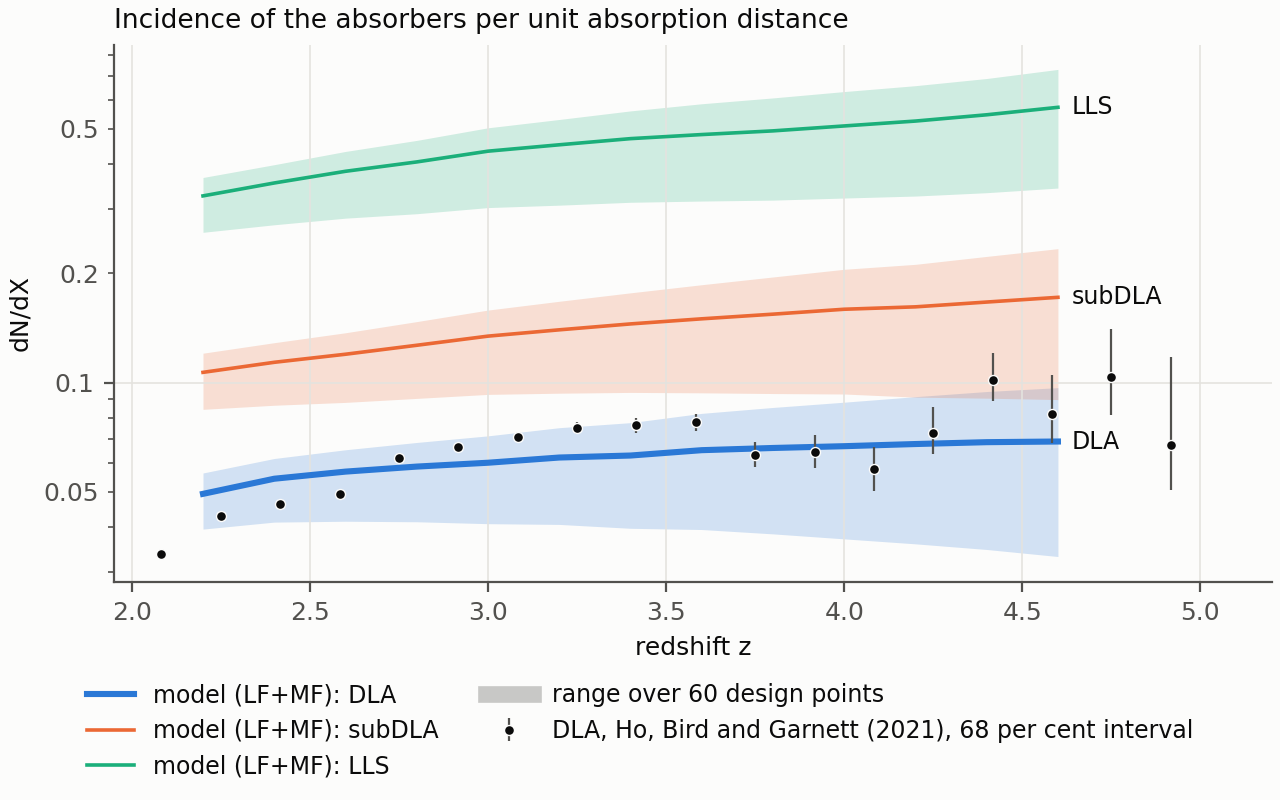
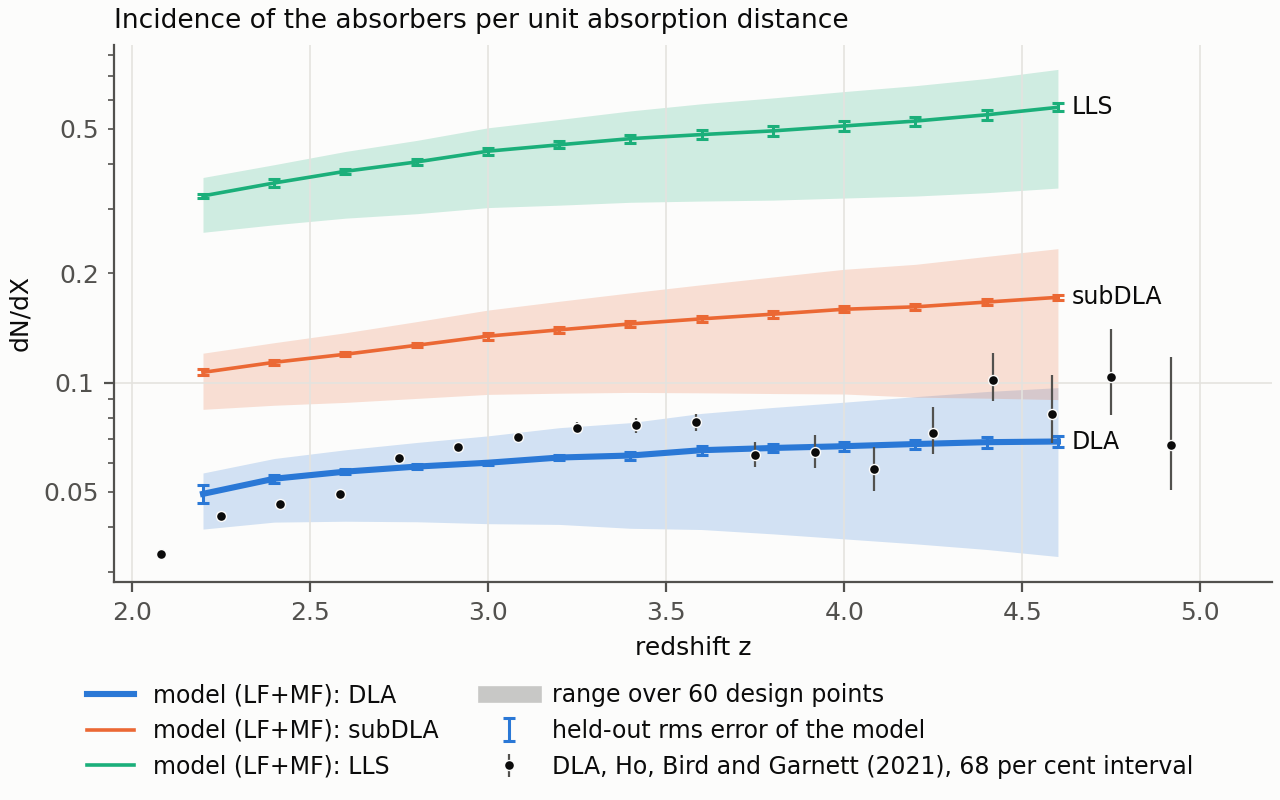
dN/dX figure: the model's held-out error as bars on its lines
The dN/dX figure draws pred.dndx_err times pred.dndx on the model lines at the snapshot redshifts: the held-out rms
of the fractional error of the corrected dN/dX, from five held-out high-resolution simulations. The caption says
what it is, that it includes the bias, and that it is an indication of size and not a standard deviation; it is
kept apart from the band over the design points. The CDDF figure does not draw the error; its caption points to
pred.cddf_err. The script draws the bars only when the model carries an estimate.

The image is redrawn from the candidate LF+MF release (staged, not yet public) with an incidence record that holds
the held-out error. The CDDF image is unchanged; both side files gain the new flag.

Changed region(s): [[0.4375, 0.875, 0.9375, 0.9688], [0.375, 0.9062, 0.4062, 0.9375]]

diff --git a/scripts/figures/fig_dndx_vs_ho21.py b/scripts/figures/fig_dndx_vs_ho21.py
@@ -15,6 +15,9 @@ What is drawn, on one axis:
   redshift;
 - bands: the lowest and the highest value over the 60 design points of the PRIYA suite
   (``docs/figures/data/priya_lf_design_60.csv``; another table with ``--design``, none with ``--no-band``);
+- bars on the model lines (only when the model's incidence record carries a held-out error): ``pred.dndx_err`` times
+  ``pred.dndx``, the held-out rms of the fractional error of the corrected dN/dX. It is an indication of size from
+  a handful of held-out simulations, not the standard deviation of a known distribution;
 - points: the DLA dN/dX of Ho, Bird and Garnett (2021) in eighteen redshift bins, with the limits of the 68 per cent
   interval, from ``docs/figures/data/ho21/dndx_all.txt``.
 
@@ -113,6 +116,7 @@ def main(argv=None) -> int:
     C.style(plt)
     fig, ax = plt.subplots(figsize=(6.4, 4.0), constrained_layout=True)
     z = np.array(REDSHIFTS)
+    drew_error = False
     for name, col, colour, width in CLASSES:
         colour = getattr(C, colour)
         if bands is not None:
@@ -122,6 +126,16 @@ def main(argv=None) -> int:
         ax.plot(
             z, stack.dndx[:, col], color=colour, lw=width, zorder=2, label=f"model (LF+MF): {name}"
         )
+        # the held-out rms of the fractional error of the corrected dN/dX, as a bar on the model line: the
+        # fractional error times the model value. Drawn only where the model carries an estimate.
+        err = None if stack.dndx_err is None else stack.dndx_err[:, col] * stack.dndx[:, col]
+        if err is not None and np.any(np.isfinite(err)):
+            ok = np.isfinite(err)
+            ax.errorbar(
+                z[ok], stack.dndx[ok, col], yerr=err[ok], fmt="none", ecolor=colour, elinewidth=1.1, capsize=2.2,
+                capthick=1.1, zorder=2, label="held-out rms error of the model" if not drew_error else None,
+            )  # fmt: skip
+            drew_error = True
         ax.annotate(
             name,
             (z[-1], stack.dndx[-1, col]),
@@ -130,6 +144,11 @@ def main(argv=None) -> int:
             va="center",
             fontsize=8.5,
         )
+    facts["heldout_error"] = (
+        "drawn on the model lines: pred.dndx_err times pred.dndx (LF+MF), the held-out rms of the fractional error"
+        if drew_error
+        else "not drawn: the model carries no held-out error at these redshifts"
+    )
     zm, dndx, lo68, hi68 = read_ho21_dndx(C.data_file("ho21", "dndx_all.txt"))
     ax.errorbar(
         zm, dndx, yerr=[dndx - lo68, hi68 - dndx], fmt="o", ms=3.6, color=C.INK, ecolor=C.INK_SECONDARY,

diff --git a/tests/test_figure_scripts.py b/tests/test_figure_scripts.py
@@ -315,6 +315,18 @@ def test_the_dndx_figure_runs_on_a_model_with_an_incidence_record(
     )
     assert facts["design_points"] == 3 and facts["design_points_refused"] == 0
     assert facts["redshifts"] == list(dndx.REDSHIFTS) and facts["parameters"] == C.MIDPOINT
+    assert facts["heldout_error"].startswith(
+        "not drawn"
+    ), "this synthetic record carries no held-out error"
+    with_error = SR.make_release(tmp_path / "with_error", incidence=True, heldout=True)
+    out2 = str(tmp_path / "dndx_with_error.png")
+    monkeypatch.setattr(
+        dndx, "REDSHIFTS", (2.6, 3.0, 5.0)
+    )  # 3.0 and 5.0 have a synthetic estimate, 2.6 has none
+    assert dndx.main(_args(with_error) + ["--no-band", "--out", out2]) == 0
+    assert _facts(out2)["heldout_error"].startswith(
+        "drawn on the model lines: pred.dndx_err times pred.dndx"
+    )
 
 
 def test_the_dndx_figure_refuses_a_model_without_an_incidence_record(tmp_path):

diff --git a/docs/model_figures.md b/docs/model_figures.md
@@ -46,7 +46,12 @@ fit and not a simulation. Nothing in these figures was fitted to the measurement
 - **Snapshots against bins.** The model is drawn at snapshot redshifts 0.2 apart; the measurement is in bins one
   sixth of a unit wide. The two measured points above z = 4.6 have no model curve beside them, and neither has
   the one below 2.2.
-- **Not shown and not tested here.** The held-out error of the model's dN/dX is not shown. Nothing was fitted. The
+- **Model (bars on the lines):** the held-out error of the corrected dN/dX, `pred.dndx_err` times `pred.dndx`: at
+  each snapshot, the rms over five held-out high-resolution simulations of the logarithm of prediction over truth.
+  It includes the bias. With five values it is an indication of size, not the standard deviation of a known
+  distribution; `labels["incidence_mf_error"]` on a prediction says what it does not cover. It is not the same
+  thing as the band, which shows how far the prediction moves across the training set.
+- **Not shown and not tested here.** Nothing was fitted. The
   measurement covers DLAs only: the subDLA and LLS curves have no measured point in this figure. The simulations and
   the survey define and find absorbers differently; that difference was not assessed.
 
@@ -86,7 +91,9 @@ python scripts/figures/fig_dndx_vs_ho21.py --release RELEASE_DIR SHA256
 - **The bin 4 to 5 is left out.** It reaches beyond z = 4.6, the upper edge of the grouped-validation domain of the
   model's multi-fidelity correction of the P1D. The correction of the CDDF that is drawn here is not validated at
   any redshift.
-- **Not shown and not tested here.** The held-out error of the model's CDDF is not shown. The measurement's tables
+- **Not shown and not tested here.** The held-out error of the model's CDDF is not drawn in this figure (with 29
+  bins and five held-out simulations per bin it would hide the comparison); a prediction carries it per bin as
+  `pred.cddf_err`. The measurement's tables
   start at log10 N_HI = 20.05; below it the model has no measured point in this figure. The simulations and the
   survey define and find absorbers differently; that difference was not assessed.
 

diff --git a/README.md b/README.md
@@ -221,7 +221,8 @@ highest value over the 60 design points of the training simulations; they are no
 of Ho, Bird and Garnett (2021, [arXiv:2103.10964](https://arxiv.org/abs/2103.10964)) with 68 per cent intervals,
 from the tables of the DLA data collection [sbird/DLA_data](https://github.com/sbird/DLA_data)
 ([provenance](docs/figures/data/ho21/PROVENANCE.md)).
-The measurement covers DLAs only. The model's held-out error is not shown.
+The measurement covers DLAs only. Bars on the lines: the model's held-out error (the rms over five held-out
+simulations; an indication of size, not a standard deviation).
 
 ![The column-density distribution of the LF+MF model at three snapshots, with the DLA measurement of Ho, Bird and Garnett (2021)](docs/figures/cddf_vs_ho21.png)
 
@@ -233,7 +234,8 @@ not an uncertainty. Points: the DLAs of Ho, Bird and Garnett (2021,
 where the measured value is zero are not drawn). One
 snapshot stands beside each bin (z = 3.4 for the bin 3 to 4). The bin 4 to 5 is left out because it reaches beyond
 z = 4.6, the edge of the range that the grouped validation of the model's P1D correction covers; the correction of
-the CDDF itself is not validated at any redshift. The model's held-out error is not shown.
+the CDDF itself is not validated at any redshift. The model's held-out error is not drawn here; a prediction
+carries it per bin (`pred.cddf_err`).
 
 ![The class power ratio at z = 3: the PRIYA training simulations with the troughs restored, and Eq. 6 of Rogers et al. (2018)](docs/figures/class_ratio_vs_rogers18.png)
 
